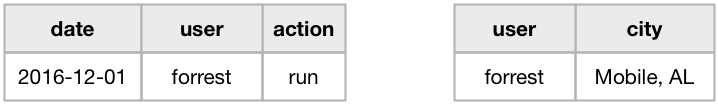
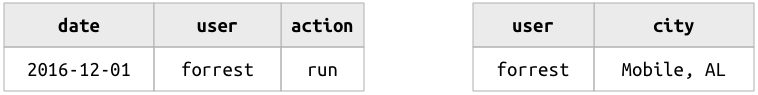
leanpub edits

diff --git a/manuscript/algebra.md b/manuscript/algebra.md
@@ -1,4 +1,4 @@
-# Relational algebra
+# Data queries 
 
 DataJoint implements a complete algebra of operators on relations, or *relational algebra*.
 DataJoint's relational algebra, we believe, improves upon the classical relational algebra and upon other query languages to simplify and enhance the construction and interpretation of precise and efficient data queries.
@@ -37,13 +37,7 @@ The following two tuples also match:
 
 But the following tuples do not match:
 
-| date | person | action |
-|:-:|:-:|:-:|   
-| 2016-12-01 |  forrest | 3 | 
-
-| person |  city |
-|:-:|:-:|   
-| jenny |  Mobile, AL | 
+![](images/matched_tuples2.png)
 
 ## Join compatibility
 All binary operators with other relations as its two operands require that their operands be *join-compatible*, which means that:
